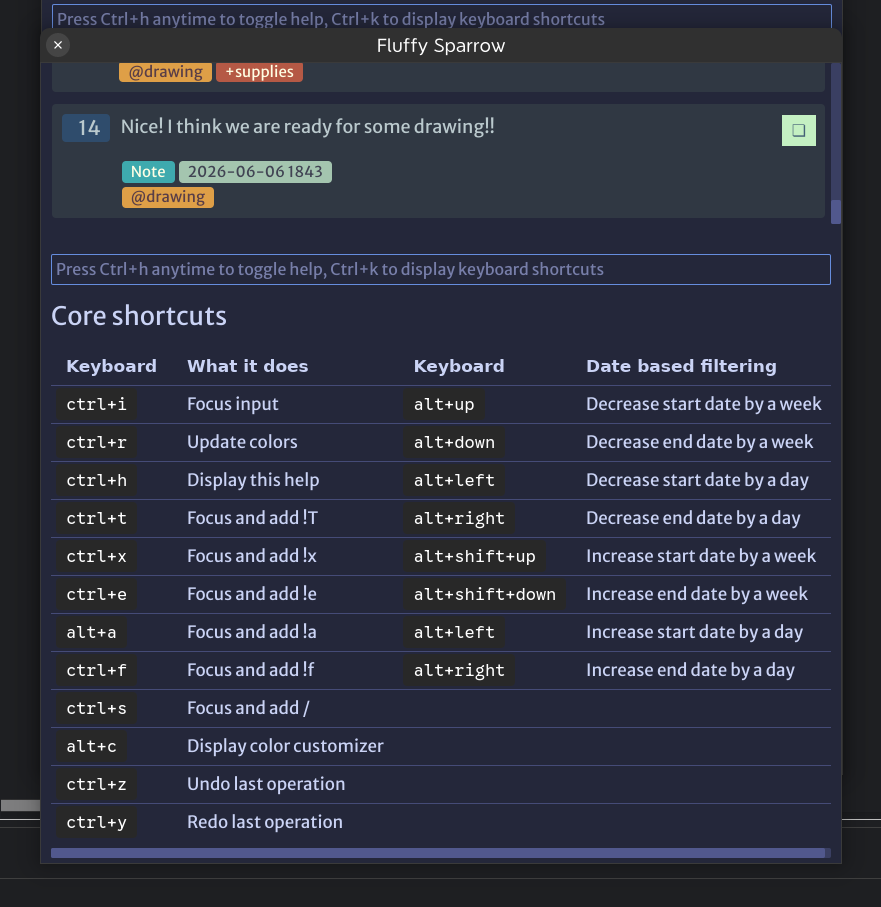
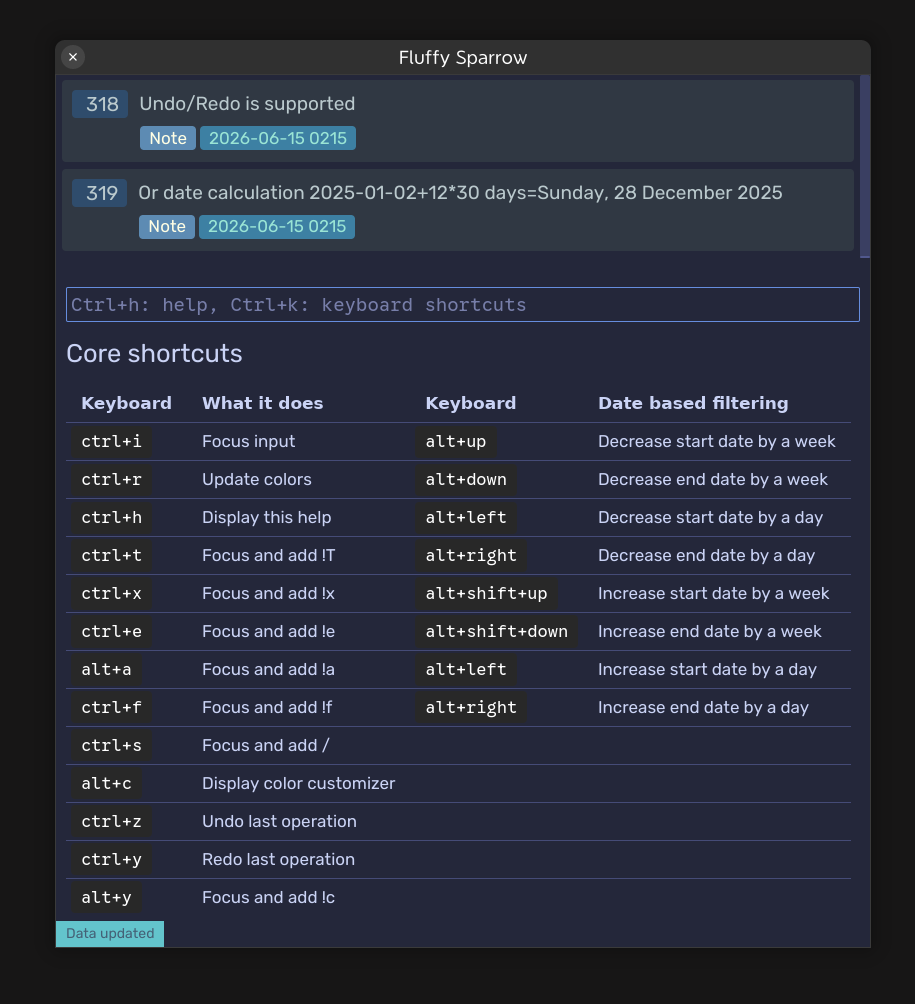
Added more screenshots

Changed region(s): [[0.0, 0.0, 0.9807, 0.957]]

diff --git a/docs/index.html b/docs/index.html
@@ -96,9 +96,21 @@
     <img src="https://tmahmood.github.io/fluffy_sparrow/images/keyboard.png" alt="keyboard.png">
     
 </div>
+<p>Also, contextual help is available.</p>
+<div >
+    <img src="https://tmahmood.github.io/fluffy_sparrow/images/contextual_help.png" alt="keyboard.png">
+    
+</div>
 <p>Also, you can customize how the app looks from the app itself, with the color scheme customizer. Make it your own.</p>
 <div >
     <img src="https://tmahmood.github.io/fluffy_sparrow/images/color_picker.png" alt="color_picker.png">
+    
+</div>
+<p>You can filter notes by date, daily, weekly or monthly. Simply by using</p>
+<pre class="giallo" style="color: #CDD6F4; background-color: #1E1E2E;"><code data-lang="plain"><span class="giallo-l"><span>alt+up/down/left/right</span></span></code></pre>
+<p>or</p>
+<pre class="giallo" style="color: #CDD6F4; background-color: #1E1E2E;"><code data-lang="plain"><span class="giallo-l"><span>alt+shift+up/down/left/right</span></span></code></pre><div >
+    <img src="https://tmahmood.github.io/fluffy_sparrow/images/fiter_date_range.png" alt="fiter_date_range.png">
     
 </div>
 <h2 id="core-principle">Core Principle</h2>

diff --git a/content/_index.md b/content/_index.md
@@ -40,10 +40,28 @@ And all actions can be performed by keyboard shortcuts
 
 {{ limg(alt="keyboard.png", src="images/keyboard.png") }}
 
+Also, contextual help is available.
+
+{{ limg(alt="keyboard.png", src="images/contextual_help.png") }}
 
 Also, you can customize how the app looks from the app itself, with the color scheme customizer. Make it your own.
 
 {{ limg(alt="color_picker.png", src="images/color_picker.png") }}
+
+
+You can filter notes by date, daily, weekly or monthly. Simply by using
+
+```
+alt+up/down/left/right
+```
+
+or
+
+```
+alt+shift+up/down/left/right
+```
+
+{{ limg(alt="fiter_date_range.png", src="images/fiter_date_range.png") }}
 
 ## Core Principle
 FS's core principle is making journaling as frictionless as possible. And, a lot of thought is put in to making it so, and still being done. It's handcrafted, without any LLM, and with a lot of care.
